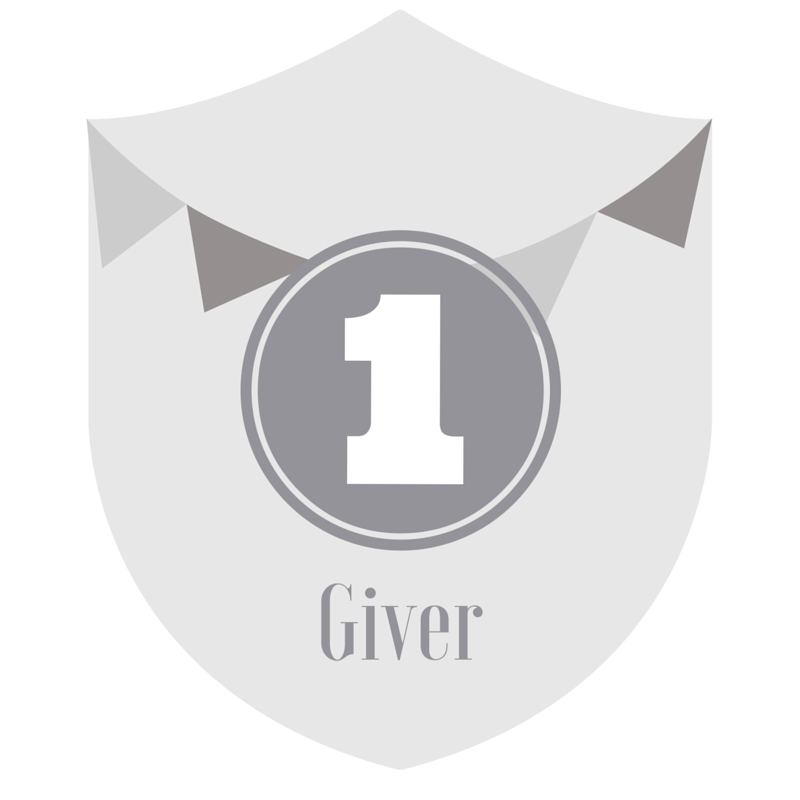
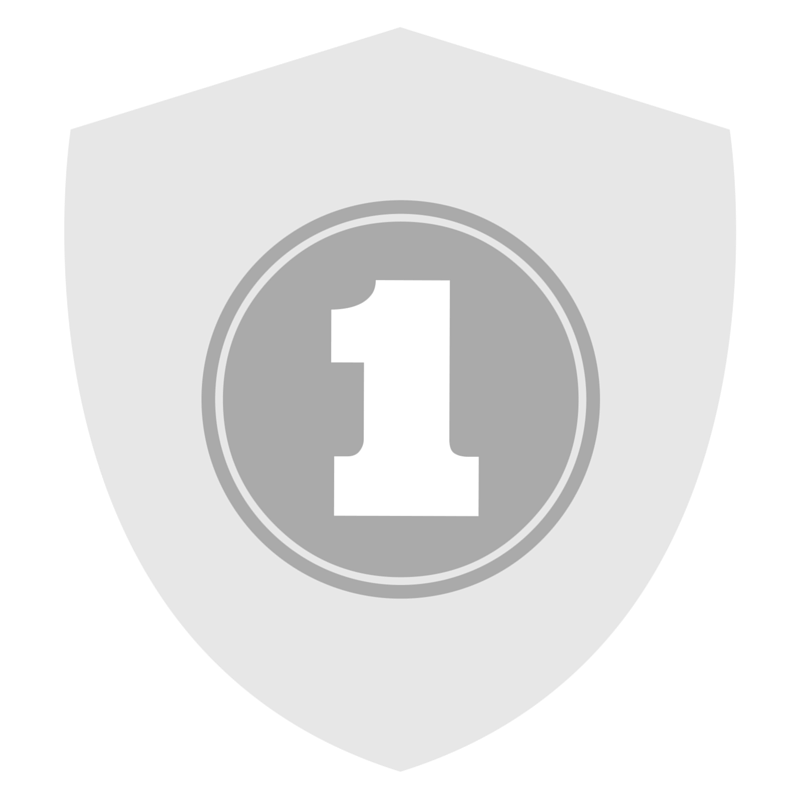
New badges, profile screen, trivia screen and choose mode (single or multiplayer)

Changed region(s): [[0.0938, 0.1562, 0.9062, 0.8438], [0.4062, 0.375, 0.4688, 0.5625]]

diff --git a/scss/givdo.ui.scss b/scss/givdo.ui.scss
@@ -2,7 +2,7 @@
     background-color: #564256 !important;
 }
 
-.profile-picture, .cover {
+.profile-picture, .cover, .your, .opponent {
     background-size: cover;
     background-position: center;
     height: 270px;
@@ -13,7 +13,7 @@
     position: absolute;
 }
 
-.profile-picture {
+.profile-picture, .your, .opponent {
     border-radius: 100%;
     border: solid 2px #fff;
     width: 100px;
@@ -21,6 +21,25 @@
     bottom: 15px;
     left: 15px;
 }
+
+.your, .opponent {
+    width: 60px;
+    height: 60px;
+    bottom: 0px;
+    left: 0px;
+}
+.your {
+    float: left;
+}
+
+.versus, .title-box {
+    margin: 20px 10px;
+}
+
+.opponent {
+    float: right;
+}
+
 .profile-name{
     display: block;
     color: #fff;
@@ -42,4 +61,60 @@
     display: block;
     border-bottom: solid 1px #564256;
     padding: 4px 0px 10px 0px;
+}
+
+.new-game {
+    background-color: #ff9933 !important;
+}
+.calm-item {
+    background-color: none !important;
+}
+
+.title-box {
+    color: #fff;
+    text-align: center;
+    font-size: 21px;
+    line-height: 31px;
+}
+
+/* sizes */
+.half-width { width: 50%}
+
+
+
+.card, .list-inset, .item {
+    background: none !important;
+}
+/* list items 
+.item {
+    color: #fff !important;
+    border: solid 2px #fff !important;
+    margin: 11px !important;
+    font-weight: 700;
+
+}*/
+
+.givdo-option {
+    color: #fff !important;
+    margin: 10px !important;
+    border: solid 1px #fff !important;
+    margin: 11px !important;
+    font-weight: 400;
+}
+
+.badge-givdo {
+    width: 87px;
+    font-size: 14px;
+    text-align: center;
+    float: left;
+    margin: 9px;
+}
+.badge-givdo img {
+    width: 100%;
+}
+
+
+/* generic */
+.clearfix {
+    clear: both;
 }

diff --git a/www/templates/ui/profile.html b/www/templates/ui/profile.html
@@ -14,13 +14,13 @@
     </div>
     <div class="profile-contents">
       <span><img src="img/achievements-icon.png">Your Achievements</span>
-      <img src="img/badges/1A.png">
-      <img src="img/badges/2A.png">
-      <img src="img/badges/3.png">
-      <img src="img/badges/4.png">
-      <img src="img/badges/5.png">
-      <img src="img/badges/6.png">
-      <img src="img/badges/7.png">
+      <div class="badge-givdo"><img src="img/badges/1A.png">Giver</div>
+      <div class="badge-givdo"><img src="img/badges/2A.png">Samaritan</div>
+      <div class="badge-givdo"><img src="img/badges/3.png">Altruist</div>
+      <div class="badge-givdo"><img src="img/badges/4.png">Benefactor</div>
+      <div class="badge-givdo"><img src="img/badges/5.png">Patron</div>
+      <div class="badge-givdo"><img src="img/badges/6.png">Philanthropist</div>
+      <div class="badge-givdo"><img src="img/badges/7.png">Grantor</div>
     </div>
   </ion-content>
 </ion-view>

diff --git a/www/templates/ui/trivia.html b/www/templates/ui/trivia.html
@@ -1,0 +1,26 @@
+<ion-view class="new-game">
+  <ion-content class="has-header">
+  <div class="versus">
+    <div class="your" style="background-image: url('img/profile-pic-example.jpg')"></div>
+    <div class="opponent" style="background-image: url('img/profile-opponent.jpg')"></div>
+  </div>
+  <div class="clearfix"></div>
+    
+    <div class="title-box">
+      What's the most hard substance in the world</div>
+    <ion-list type="list-inset">
+      <ion-item class="givdo-option">
+        Diamond
+      </ion-item>
+      <ion-item class="givdo-option">
+        Condurum
+      </ion-item>
+      <ion-item class="givdo-option">
+        Topaz
+      </ion-item>
+      <ion-item class="givdo-option">
+        Quartz
+      </ion-item>
+    </ion-list>
+  </ion-content>
+</ion-view>

diff --git a/www/js/givdo.ui.js b/www/js/givdo.ui.js
@@ -17,6 +17,26 @@
               controller: 'ProfileCtrl'
             }
           }
+        })
+        .state('play-ui', {
+          url: '/play-ui',
+          parent: 'ui',
+          views: {
+            'menuContent': {
+              templateUrl: 'templates/ui/new-game.html',
+              controller: 'ProfileCtrl'
+            }
+          }
+        })
+        .state('trivia-ui', {
+          url: '/trivia-ui',
+          parent: 'ui',
+          views: {
+            'menuContent': {
+              templateUrl: 'templates/ui/trivia.html',
+              controller: 'ProfileCtrl'
+            }
+          }
         });
     }])
 

diff --git a/www/templates/ui/new-game.html b/www/templates/ui/new-game.html
@@ -1,0 +1,16 @@
+<ion-view class="new-game">
+  <ion-content class="has-header">
+    
+    <div class="title-box">
+      <img src="img/givdo-icon-white.png" class="half-width"><br>
+      Choose your mode</div>
+    <ion-list type="list-inset">
+      <ion-item class="givdo-option" ng-click="playSingle()">
+        Single Player
+      </ion-item>
+      <ion-item class="givdo-option" ng-click="inviteFriends()">
+        Multiplayers
+      </ion-item>
+    </ion-list>
+  </ion-content>
+</ion-view>
